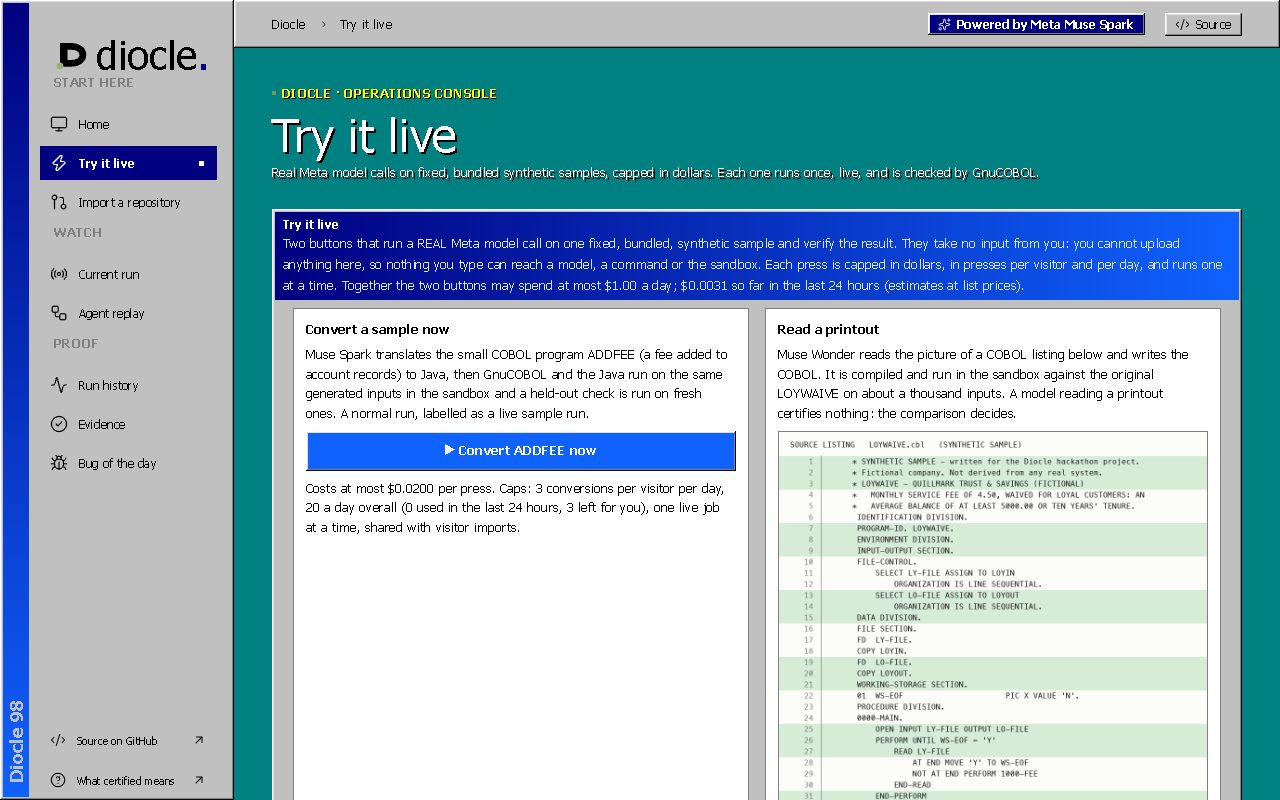
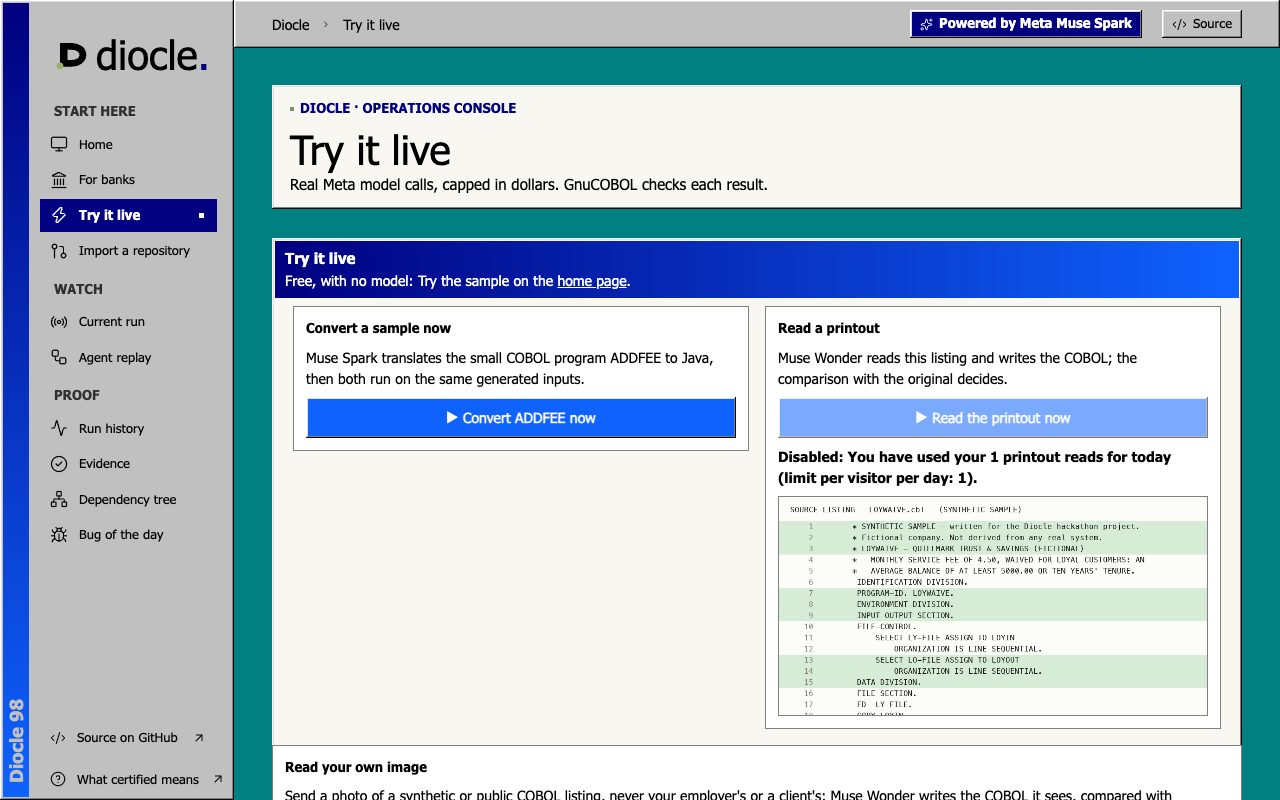
Docs: recapture the walkthrough from the live site and add the dependency tree, impact view, For banks, Meta vs Meta and the blind test; README on why it was built

diff --git a/docs/WALKTHROUGH.md b/docs/WALKTHROUGH.md
@@ -2,11 +2,11 @@
 
 **Video:** https://youtu.be/6pk5W6bsaQ4 · **Live site:** https://diocle.vercel.app · All programs and data are synthetic.
 
-Each picture says where it came from: **live** was captured from the public site or GitHub on Nov 1, 2026, read-only unless stated; **recording** is a frame from a recording made during the hackathon, of a real run, on the interface as it was then. Numbers are from those runs; what "certified" means and does not mean is in the [README](../README.md#limits).
+Each picture says where it came from: **live** was captured from the public site on Nov 4, 2026, read-only unless stated; **live, Nov 1** is an earlier capture of a page or GitHub view that has not changed in substance; **recording** is a frame from a recording made during the hackathon, of a real run, on the interface as it was then. Numbers are from those runs; what "certified" means and does not mean is in the [README](../README.md#limits).
 
 ## 1. The first screen
 
-The finding, one catch, the steps, the numbers and the limits. The record in the catch is malformed, and the screen says so. *Live.*
+The question, one catch and the four steps, with the numbers, the limits and the evidence folded below. The record in the catch is malformed, and the screen says so. *Live.*
 
 ![Home page](walkthrough/01-home.jpg)
 
@@ -16,151 +16,185 @@ The original on GnuCOBOL and the stored Java, one run each, on about 1,000 gener
 
 ![Try the sample](walkthrough/02-try-the-sample.jpg)
 
-## 3. Try it live: two capped buttons
+## 3. For banks
 
-**Convert a sample now** (Muse Spark translates one bundled program, cap $0.02) and **Read a printout** (Muse Wonder reads one bundled listing, cap $0.10). No free text. Since Nov 2 the page also reads your own image and takes a question in your own voice, under [their own caps](FEATURES.md#your-own-voice-and-your-own-image-on-the-live-page-capped-added-nov-2); this picture was taken before that. *Live; the buttons were not pressed for this picture.*
+What a reviewer gets, what a first pilot would look like, and what is not there yet: no bank has used Diocle, and it has no security audit or compliance certification. *Live.*
+
+![For banks](walkthrough/30-for-banks.jpg)
+
+## 4. Try it live: capped buttons
+
+**Convert a sample now** (Muse Spark translates one bundled program, cap $0.02) and **Read a printout** (Muse Wonder reads one bundled listing, cap $0.10). Below them, a visitor can send their own image of a COBOL listing, and ask a question in their own voice, under [their own caps](FEATURES.md#your-own-voice-and-your-own-image-on-the-live-page-capped-added-nov-2). No free text. *Live; no button pressed. The printout button shows the per-visitor daily limit, already used from this browser.*
 
 ![Try it live](walkthrough/03-try-it-live.jpg)
 
-## 4. Read a printout (Muse Wonder)
+## 5. Read a printout (Muse Wonder)
 
 Muse Wonder reads a photographed COBOL listing back into COBOL; the verifier then compares it with the original. Here: identical on 1,013 of 1,013 output records, $0.054. *Recording, Nov 1, local engine.*
 
 ![Read a printout](walkthrough/26-printout.jpg)
 
-## 5. Ask the original program by voice (Muse Voice Transcribe)
+## 6. Ask the original program by voice (Muse Voice Transcribe)
 
-A bundled spoken question is transcribed, Muse Spark proposes claims with examples, GnuCOBOL runs the examples, and the answer uses only what was confirmed. *Live, one real ask pressed for this picture (about $0.002, within the public cap).*
+A bundled spoken question, or your own under a cap, is transcribed, Muse Spark proposes claims with examples, GnuCOBOL runs the examples, and the answer uses only what was confirmed. *Live; no question asked for this picture.*
 
 ![Ask by voice](walkthrough/04-ask-by-voice.jpg)
 
-## 6. Import a repository
+## 7. Import a repository
 
-Paste a public COBOL repository; each program is analyzed, converted within a small budget and checked, with the delivery and its steps listed. *Live, no import started.*
+Paste a public COBOL repository; each program is analyzed, converted within a small budget and checked, with the delivery and its steps listed. The delivery below the form is Harbor, a fictional bank. *Live, no import started.*
 
 ![Import a repository](walkthrough/05-import-a-repository.jpg)
 
-## 7. Current run
+## 8. The dependency tree on an import
+
+Every import gets the analyzer's tree on its delivery page, with no model. Where the server allows it, Muse Image also draws one small part, Muse Wonder reads the drawing back without seeing the graph, and code compares that with the analyzer. Optional and capped. Here, `fzn0x/core-banking-system` (delivery `delivery-20261104-072240`): 4 links, and the drawing of 3 of them matched on attempt 1. Its 2 programs did not certify. *Live, stored delivery.*
+
+![Dependency tree on an import](walkthrough/29-import-tree.jpg)
+
+## 9. Dependency tree and impact view
+
+What calls, copies and runs what, from the analyzer's report, next to a recorded drawing. A drawing is marked as checked only if it is read back and matches exactly, which is not a proof it is correct. Small trees passed; whole-repository drawings did not ([results](DEPENDENCY_TREES.md)). *Live.*
+
+![Dependency tree](walkthrough/27-dependency-tree.jpg)
+
+Select a name to see what depends on it. It covers only the links the analyzer found, so dynamic CALLs and refused programs may be missing. *Live, `MSTREC` selected.*
+
+![Impact view](walkthrough/28-impact-view.jpg)
+
+## 10. Current run
 
 Whatever the engine is running now, or the ways to start something when it is idle. *Live, idle.*
 
 ![Current run](walkthrough/07-current-run.jpg)
 
-## 8. Agent replay
+## 11. Agent replay
 
 One stored run, step by step, by role. It is a replay of a recorded run, and the page says so. *Live.*
 
 ![Agent replay](walkthrough/08-agent-replay.jpg)
 
-## 9. Run history
+## 12. Run history
 
 Every run the engine has kept, including failed and interrupted ones. *Live.*
 
 ![Run history](walkthrough/09-run-history.jpg)
 
-## 10. What one run did and did not establish
+## 13. What one run did and did not establish
 
 Run `chqclr-20261028-214355`. Each check is listed apart, and a check that did not happen says "not run". *Live.*
 
 ![Checks in a run](walkthrough/10-run-checks.jpg)
 
-## 11. The breaker agent
+## 14. The breaker agent
 
 Muse Spark designs inputs aimed at Java that already passed; each is run through both programs. These two records are malformed: letters or a space in a numeric field. *Live, stored run.*
 
 ![Breaker agent](walkthrough/11-breaker.jpg)
 
-## 12. COBOL next to Java, and the copybooks as SQL
+## 15. COBOL next to Java, and the copybooks as SQL
 
 The original and its copybooks beside the Java, with a `schema.sql` tab generated with no model and checked by a SQLite round trip. *Live, stored run.*
 
 ![COBOL, Java and SQL](walkthrough/12-cobol-java-sql.jpg)
 
-## 13. Which Meta model did what
+## 16. Which Meta model did what
 
 Every model call is logged by role, with tokens and estimated cost. Unused roles say so. *Live, stored run.*
 
 ![Models in a run](walkthrough/13-models-in-run.jpg)
 
-## 14. Private mode on open weights (Muse Spark Open)
+## 17. Private mode on open weights (Muse Spark Open)
 
 The same agents on Muse Spark Open, served by Fireworks: INTACCR certified on 1,027 output records. One public run; partner inference, not hardware we control. *Live, stored run.*
 
 ![Private mode](walkthrough/15-private-mode.jpg)
 
-## 15. How strong is this verification? (mutation testing)
+## 18. How strong is this verification? (mutation testing)
 
 Small faults are seeded into a copy of the Java to see whether the inputs would notice. No model. This stored report is from Oct 30, on the old CHQCLR records; [the re-test is explained here](SHOWCASE_CHQCLR.md). *Live.*
 
 ![Mutation testing](walkthrough/14-mutation.jpg)
 
-## 16. Verified documentation
+## 19. Verified documentation
 
-A model writes a behaviour spec as claims with examples; the original COBOL decides each one. Confirmed means on the examples tried. *Live, stored run.*
+A model writes a behaviour spec as claims with examples; the original COBOL decides each one. Confirmed means on the examples tried. *Live, Nov 1, stored run.*
 
 ![Behaviour spec](walkthrough/16-verified-documentation.jpg)
 
-## 17. Embedded SQL subset, on a stand-in
+## 20. Embedded SQL subset, on a stand-in
 
 A stated subset of EXEC SQL, with final table contents compared. SQLite stands in for DB2: not DB2-verified. *Live, stored run.*
 
 ![DB2 subset on SQLite](walkthrough/17-db2-subset.jpg)
 
-## 18. Evidence: cost scoreboard
+## 21. Evidence: cost scoreboard
 
 Raw model spend across certified runs, from the engine's own records. Compute, hosting and human review are not measured. *Live.*
 
 ![Scoreboard](walkthrough/18-scoreboard.jpg)
 
-## 19. Evidence: what is verified, and what is not
+## 22. Evidence: what is verified, and what is not
 
 The coverage matrix, by kind of mainframe artifact, including what is partial, on a stand-in or unsupported. *Live.*
 
 ![Coverage matrix](walkthrough/19-coverage.jpg)
 
-## 20. Evidence: the showcased catch, with its limits
+## 23. Evidence: the showcased catch, with its limits
 
 The CHQCLR story, including that the inputs were malformed and the weakness we found in our own check. *Live.*
 
 ![Evidence on the breaker](walkthrough/20-evidence-breaker.jpg)
 
-## 21. Bug of the day
+## 24. Evidence: Meta vs Meta
+
+Three Meta models attack the same Java, on 10 synthetic programs, once each, and GnuCOBOL decides every result: Muse Spark broke 4 ($0.11), Muse Spark Open 2 ($1.18), Muse Wonder 5 ($4.20). One attack each, so [this is not a ranking](META_TOURNAMENT.md). *Live, recorded results.*
+
+![Meta vs Meta](walkthrough/31-meta-vs-meta.jpg)
+
+## 25. Evidence: a blind test
+
+COBOL no fix had seen, including the public repository of Norway's retired national pension system: 2 of the 4 programs Diocle could test certified, and 2 did not. Blind means only that no fix or tuning was made for these repositories, which were chosen because the analyzer could test them ([details](BLIND_TEST.md)). *Live, recorded results.*
+
+![Blind test](walkthrough/32-blind-test.jpg)
+
+## 26. Bug of the day
 
 Real catches read from stored runs, each with who caught it, the cost and its caveat. *Live.*
 
 ![Bug of the day](walkthrough/21-bug-of-the-day.jpg)
 
-## 22. Delivery: a pull request with reports
+## 27. Delivery: a pull request with reports
 
-Certified programs arrive as an ordinary pull request with an equivalence report per program ([quillmark-modern#4](https://github.com/Nivetha200111/quillmark-modern/pull/4)). *Live.*
+Certified programs arrive as an ordinary pull request with an equivalence report per program ([quillmark-modern#4](https://github.com/Nivetha200111/quillmark-modern/pull/4)). *Live, Nov 1.*
 
 ![Pull request](walkthrough/22-pull-request.jpg)
 
-## 23. CI in the target repository
+## 28. CI in the target repository
 
-The target repository's own CI re-runs the comparison on inputs from a new seed: 6,719 output records, 0 differences. It reuses Diocle's verifier, so it shares its assumptions. *Live.*
+The target repository's own CI re-runs the comparison on inputs from a new seed: 6,719 output records, 0 differences. It reuses Diocle's verifier, so it shares its assumptions. *Live, Nov 1.*
 
 ![Target repository CI](walkthrough/23-target-repo-ci.jpg)
 
-## 24. Whole-repository build check
+## 29. Whole-repository build check
 
 Compiles the delivered programs together and checks CALL signatures. This is the Harbor delivery, and the check reports **FAIL**: some CALLs pass the wrong number of arguments. Each program was verified alone, so they were delivered, and the pull request says plainly that they do not fit together. Experimental. *Live.*
 
 ![Whole-repository build check](walkthrough/06-build-check.jpg)
 
-## 25. VS Code extension
+## 30. VS Code extension
 
 Check that a COBOL file compiles, then convert and verify it from the editor with your own key, capped in dollars, with the same labels. A local build, not on a marketplace. *Recording, Oct 31, VS Code's web build with the extension, ADDFEE converted for $0.0124.*
 
 ![VS Code extension](walkthrough/24-vscode.jpg)
 
-## 26. Muse Code plugin
+## 31. Muse Code plugin
 
 Diocle as a local plugin for Meta's coding agent. Here Muse Code, running Muse Wonder as its own model, calls the tools and has Muse Spark convert INTACCR: 1,027 of 1,027, about $0.017. The prompt named the tools and conversion was enabled and capped by the owner. Local, not an official Meta integration. *Recording, Oct 31, [transcripts](../editors/muse-code/transcripts/).*
 
 ![Muse Code plugin](walkthrough/25-muse-code.jpg)
 
-## 27. In a terminal
+## 32. In a terminal
 
 **Analyzer, no model** (real output, Nov 1):
 

diff --git a/docs/HANDOFF.md b/docs/HANDOFF.md
@@ -13,7 +13,9 @@ This repository is public: never write secrets, passcodes, personal details or e
 - **What:** https://youtu.be/6pk5W6bsaQ4, 2:58, replaces v16 as the linked video. 1980s to 90s terminal slides in 3270 colours, real site footage in a laptop frame, and a new opening: twenty became zero, COBOL developers retiring, and their work falling to junior engineers.
 - **Narration:** a synthetic voice (ElevenLabs), the owner's decision. Disclosed in the README and the video description, not in the video.
 - **Compliance:** the docs now describe this cut. CardDemo is no longer shown in the video, though its recorded run stays linked as evidence.
-- **Open:** the owner confirms the ElevenLabs plan covers this use; the X post of this cut and its link in the form.
+- **Submitted:** the owner reports the entry is submitted and the X post is up (Nov 4, about 16:00 IST). Make no repo changes after the deadline (Nov 4, 9 PM ET) until judging ends.
+- **Open:** the owner confirms the ElevenLabs plan covers this use.
+- **Walkthrough:** screenshots recaptured from the live site on Nov 4, with new sections on the dependency tree, the impact view, For banks, Meta vs Meta and the blind test. Three pictures stay from Nov 1 and are labelled, and the recordings stay.
 
 ## Nov 4: dependency trees on imports (on `main`; the owner approved the push and deploy directly)
 - **Live on Nov 4:** engine deployed at `82c25b7` with `TREE_IMAGE_MODEL_ID` set. `delivery-20261104-072240` (fzn0x/core-banking-system): tree of 4 links, drawing passed on attempt 1, programs not certified. `delivery-20261104-084325` (AWS CardDemo): 3 certified, tree of 340 links, no drawing because of the visitor cap, as designed.

diff --git a/docs/SUBMISSION_CHECKLIST.md b/docs/SUBMISSION_CHECKLIST.md
@@ -8,7 +8,7 @@ Things only the owner can fill in or confirm. Nothing here is done by the build 
 - [x] **Engine deploy after PR #1.** On `7f87dc2`, Nov 2, with PR #1 ("Nothing to convert") and the clearer no-GitHub-login message; re-check afterwards: 1,004 of 1,004.
 
 - [x] **Demo video link.** https://youtu.be/6pk5W6bsaQ4 is in the first line of [README.md](../README.md); it opens without signing in (checked Nov 4 through YouTube's public oEmbed endpoint).
-- [ ] **X post of the final cut; add its link to the form.** Post the demo on X within the hour after submitting and add the post link to the submission form (Most Viral needs it; Community Vote runs in the public gallery). No vertical cut exists. Post the final cut; X may limit free accounts to 2:20, so link the YouTube video if the upload is refused.
+- [x] **X post of the final cut (owner reports posted, Nov 4); add its link to the form.** Post the demo on X within the hour after submitting and add the post link to the submission form (Most Viral needs it; Community Vote runs in the public gallery). No vertical cut exists. Post the final cut; X may limit free accounts to 2:20, so link the YouTube video if the upload is refused.
 - [ ] **Repository is public** and the default branch shows the latest commit (visibility was `PUBLIC` on Oct 31; recheck at submission).
 - [x] **Meta Model API credits claimed (owner, Nov 2)** before Nov 4, 9 PM ET (the claim form is in the official participant guide).
 - [ ] **Spend limit set.** Not reported yet.

diff --git a/README.md b/README.md
@@ -52,7 +52,7 @@ A failed migration is expensive: TSB's 2018 core-banking migration affected a si
 
 ## Why I built this
 
-I worked on a COBOL modernization at a global finance company, where every translated program was checked by hand, and it drained the project's timeline. AI now writes the Java in minutes, but someone still has to decide whether to accept it. I built the check I wished that project had. No code or data from that work is here.
+I worked on a COBOL modernization at a global finance company, where every translated program was checked by hand, and it drained the project's timeline. Many of my colleagues were COBOL developers. They retired, and their work landed on junior engineers, who had to learn COBOL and verify it against the Java. AI now writes the Java in minutes, but someone still has to decide whether to accept it. I built the check I wished that project had. No code or data from that work is here.
 
 ## What we found
 
